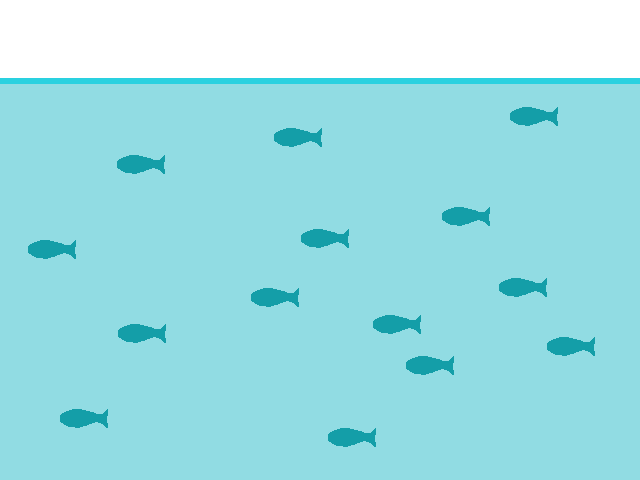
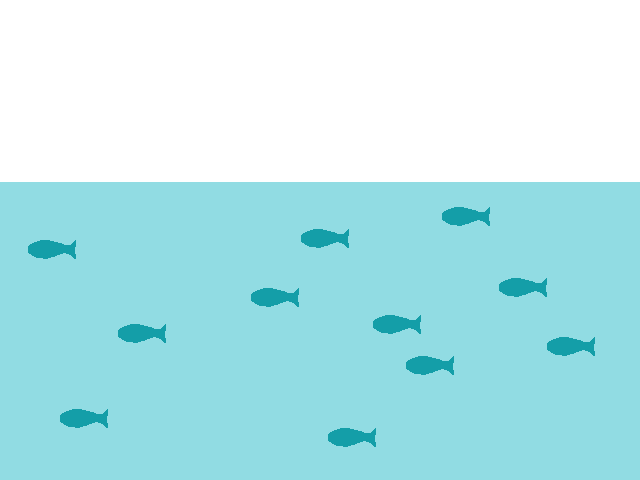
updated assets and player positioning

Changed region(s): [[0.0, 0.1562, 1.0, 0.4062]]

diff --git a/src/scenes/Play.js b/src/scenes/Play.js
@@ -6,11 +6,13 @@ class Play extends Phaser.Scene {
     preload() {
         // load images/tile sprites
         this.load.image('fisherman', './assets/fisherman.png');
+        this.load.image('fishingbob', './assets/fisherman.png');
         this.load.image('redfish', './assets/redfish.png');
         this.load.image('bluefish', './assets/bluefish.png');
         this.load.image('greenfish', './assets/greenfish.png');
         this.load.image('sunset', './assets/sunset.png');
         this.load.image('underwater', './assets/underwater.png');
+        this.load.image('sunandmoon', './assets/sunandmoon.png');
 
         // load spritesheet
         this.load.spritesheet('explosion', './assets/explosion.png', {
@@ -23,12 +25,17 @@ class Play extends Phaser.Scene {
 
     create() {
         // place starfield
-        this.starfield = this.add.tileSprite(0, 0, game.config.width, game.config.height,
+        this.sunset = this.add.tileSprite(0, 0, game.config.width, game.config.height,
+        'sunset').setOrigin(0, 0);
+        this.underwater = this.add.tileSprite(0, 0, game.config.width, game.config.height,
         'underwater').setOrigin(0, 0);
+        this.sunandmoon = this.add.tileSprite(0, 0, game.config.width, game.config.height,
+        'sunandmoon').setOrigin(0, 0);
 
         // green UI background
         this.add.rectangle(0, borderUISize + borderPadding, game.config.width,
-        borderUISize * 2, 0x00FF00).setOrigin(0, 0);
+            borderUISize * 2, 0x00FF00).setOrigin(0, 0);
+
         // white borders
         this.add.rectangle(0, 0, game.config.width, borderUISize, 0xFFFFFF).setOrigin(0, 0);
         this.add.rectangle(0, game.config.height - borderUISize, game.config.width, borderUISize, 0xFFFFFF).setOrigin(0, 0);
@@ -36,13 +43,14 @@ class Play extends Phaser.Scene {
         this.add.rectangle(game.config.width - borderUISize, 0, borderUISize, game.config.height, 0xFFFFFF).setOrigin(0, 0);
 
         // add rocket (player 1)
-        this.p1Rocket = new Rocket(this, game.config.width/2, game.config.height - 
-        borderUISize - borderPadding, 'fisherman').setOrigin(0.5, 0);
+        this.p1Rocket = new Rocket(this, game.config.width/2, borderUISize + borderPadding + borderUISize * 4.1, 'fisherman').setOrigin(0.5, 0);
+        // add fishing bob
+        this.p2Rocket = new Fisherman(this, game.config.width/2, borderUISize + borderPadding + borderUISize * 4.1, 'fishingbob').setOrigin(0.5, 0);
 
         // add spaceship (x3)
-        this.ship01 = new Spaceship(this, game.config.width + borderUISize * 6, borderUISize * 4, 'redfish', 0, 30).setOrigin(0, 0);
-        this.ship02 = new Spaceship(this, game.config.width + borderUISize * 3, borderUISize * 5, 'bluefish', 0, 20).setOrigin(0, 0);
-        this.ship03 = new Spaceship(this, game.config.width, borderUISize * 6 + borderPadding * 4, 'greenfish', 0, 10).setOrigin(0, 0);
+        this.ship01 = new Spaceship(this, game.config.width + borderUISize * 6, borderUISize * 11, 'redfish', 0, 30).setOrigin(0, 0);
+        this.ship02 = new Spaceship(this, game.config.width + borderUISize * 3, borderUISize * 9, 'bluefish', 0, 20).setOrigin(0, 0);
+        this.ship03 = new Spaceship(this, game.config.width, borderUISize * 6 + borderPadding * 6, 'greenfish', 0, 10).setOrigin(0, 0);
 
         // define keys
         keyF = this.input.keyboard.addKey(Phaser.Input.Keyboard.KeyCodes.F);
@@ -78,7 +86,7 @@ class Play extends Phaser.Scene {
             fixedWidth: 100
         }
         this.scoreLeft = this.add.text(borderUISize + borderPadding, borderUISize
-        + borderPadding * 2, this.p1Score, scoreConfig);
+        + borderPadding * 35, this.p1Score, scoreConfig);
 
         // GAME OVER flag
         this.gameOver = false;
@@ -103,7 +111,9 @@ class Play extends Phaser.Scene {
             this.scene.start("menuScene");
         }
 
-        this.starfield.tilePositionX -= starSpeed;
+        this.underwater.tilePositionX += starSpeed;
+        this.sunset.tilePositionX = 0;
+        this.sunandmoon.tilePositionX -= skySpeed;
 
         if (!this.gameOver) {
             this.p1Rocket.update();         // update rocket sprite

diff --git a/src/scenes/Menu.js b/src/scenes/Menu.js
@@ -26,14 +26,11 @@ class Menu extends Phaser.Scene {
         }
 
         // show menu text
-        this.add.text(game.config.width/2, game.config.height/2 - borderUISize - 
-        borderPadding, 'FISHING PATROL', menuConfig).setOrigin(0.5);
-        this.add.text(game.config.width/2, game.config.height/2, 'Use ← → arrows to move & (F) to fire',
-        menuConfig).setOrigin(0.5);
+        this.add.text(game.config.width/2, game.config.height/2 - borderUISize - borderPadding, 'FISHING PATROL', menuConfig).setOrigin(0.5);
+        this.add.text(game.config.width/2, game.config.height/2, 'Use ← → arrows to move & (F) to fire', menuConfig).setOrigin(0.5);
         menuConfig.backgroundColor = '#00FF00';
         menuConfig.color = '#000';
-        this.add.text(game.config.width/2, game.config.height/2 + borderUISize +
-        borderPadding, 'Press ← for Novice or → for Expert', menuConfig).setOrigin(0.5);
+        this.add.text(game.config.width/2, game.config.height/2 + borderUISize + borderPadding, 'Press ← for Novice or → for Expert', menuConfig).setOrigin(0.5);
         
         // define keys
         keyLEFT = this.input.keyboard.addKey(Phaser.Input.Keyboard.KeyCodes.LEFT);

diff --git a/src/prefabs/Fisherman.js b/src/prefabs/Fisherman.js
@@ -1,9 +1,7 @@
-// Rocket (projectile) prefab
-class Rocket extends Phaser.GameObjects.Sprite {
+// Fisherman (player) prefab
+class Fisherman extends Phaser.GameObjects.Sprite {
     constructor(scene, x, y, texture, frame) {
         super(scene, x, y, texture, frame);
-
-        this.sfxRocket = scene.sound.add('sfx_rocket'); // add rocket sfx
 
         // add object to the existing scene
         scene.add.existing(this);
@@ -26,19 +24,5 @@ class Rocket extends Phaser.GameObjects.Sprite {
             this.isFiring = true;
             this.sfxRocket.play();  // play sfx
         }
-        // if fired, move the rocket up
-        if(this.isFiring && this.y >= borderUISize * 3 + borderPadding) {
-            this.y += this.moveSpeed;
-        }
-        // reset on miss
-        if(this.y >= game.config.height - borderUISize - borderPadding) {
-            this.reset();
-        }
-    }
-
-    // reset rocekt to "ground"
-    reset() {
-        this.isFiring = false;
-        this.y = borderUISize + borderPadding + borderUISize * 4.1;
     }
 }

diff --git a/index.html b/index.html
@@ -15,6 +15,7 @@
     <script src="./lib/phaser.js"></script>
     <script src="./src/prefabs/Rocket.js"></script>
     <script src="./src/prefabs/Spaceship.js"></script>
+    <scrpit src="./src/prefabs/Fisherman.js"></scrpit>>
     <script src="./src/scenes/Menu.js"></script>
     <script src="./src/scenes/Play.js"></script>
     <script src="./src/main.js"></script>

diff --git a/src/main.js b/src/main.js
@@ -11,7 +11,8 @@ let game = new Phaser.Game(config);
 // set UI sizes
 let borderUISize = game.config.height / 15;
 let borderPadding = borderUISize / 3;
-let starSpeed = 4;
+let starSpeed = 0.1;
+let skySpeed = 0.01;
 
 // reserve keyboard bindings
 let keyF, keyR, keyLEFT, keyRIGHT;
